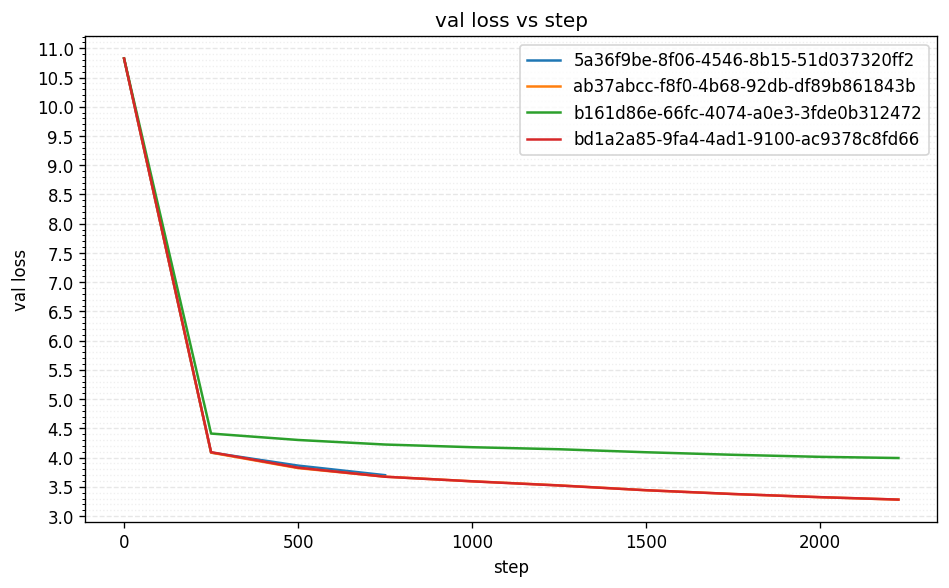
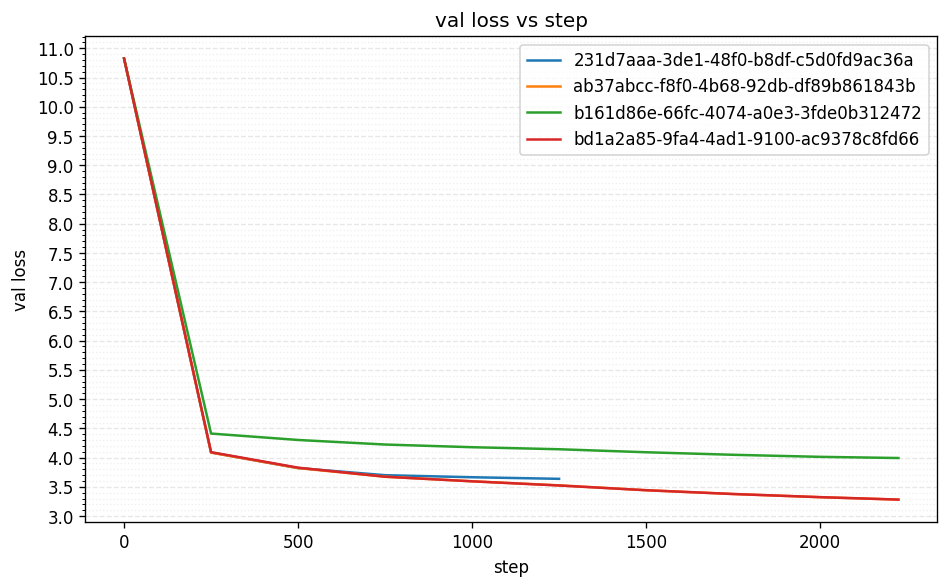
bugfix

Changed region(s): [[0.6112, 0.0918, 0.9779, 0.1224], [0.4278, 0.7959, 0.5806, 0.8265], [0.275, 0.7653, 0.3361, 0.7959]]

diff --git a/adtrain.py b/adtrain.py
@@ -884,11 +884,6 @@ class DistAdEMAMix(torch.optim.Optimizer):
                 else:
                     beta3 = target_beta3
 
-                # weight decay
-                if wd != 0:
-                    eff_weight_decay = lr * wd * getattr(param, "wd_mul", 1.0)
-                    p_slice.mul_(1 - eff_weight_decay)
-
                 # Update fast EMA (with bias correction like standard Adam)
                 exp_avg_fast.mul_(beta1).add_(g_slice, alpha=1 - beta1)
 
@@ -910,6 +905,13 @@ class DistAdEMAMix(torch.optim.Optimizer):
                 # compute step
                 denom = (exp_avg_sq.sqrt() / (bias2 ** 0.5)) + eps
                 update = combined_grad / denom
+
+                # Apply L2 weight decay (like reference implementation)
+                # This adds the parameters to the update BEFORE scaling by lr
+                if wd != 0:
+                    eff_weight_decay = wd * getattr(param, "wd_mul", 1.0)
+                    update = update + eff_weight_decay * p_slice
+
                 p_slice.add_(update, alpha=-lr)
 
                 all_gather_futures.append(dist.all_gather_into_tensor(param, p_slice, async_op=True).get_future())
@@ -1765,9 +1767,6 @@ def get_lr(step: int):
         w = (1 - x) / args.cooldown_frac
         lr = w * 1.0 + (1 - w) * 0.1
 
-    if x >= 500:
-        lr += 1.5*x
-
     return lr
 
 def get_ws(step: int):
@@ -1938,7 +1937,8 @@ for step in range(train_steps + 1):
         # Create new AdEMAMix optimizer for matrix params
         new_opt2 = DistAdEMAMix(
             hidden_matrix_params + gate_params,
-            lr=0.03,
+            # lr=0.03,
+            lr=0.008,
             betas=(0.9, 0.999, args.ademamix_beta3),
             alpha=args.ademamix_alpha,
             eps=1e-8,
